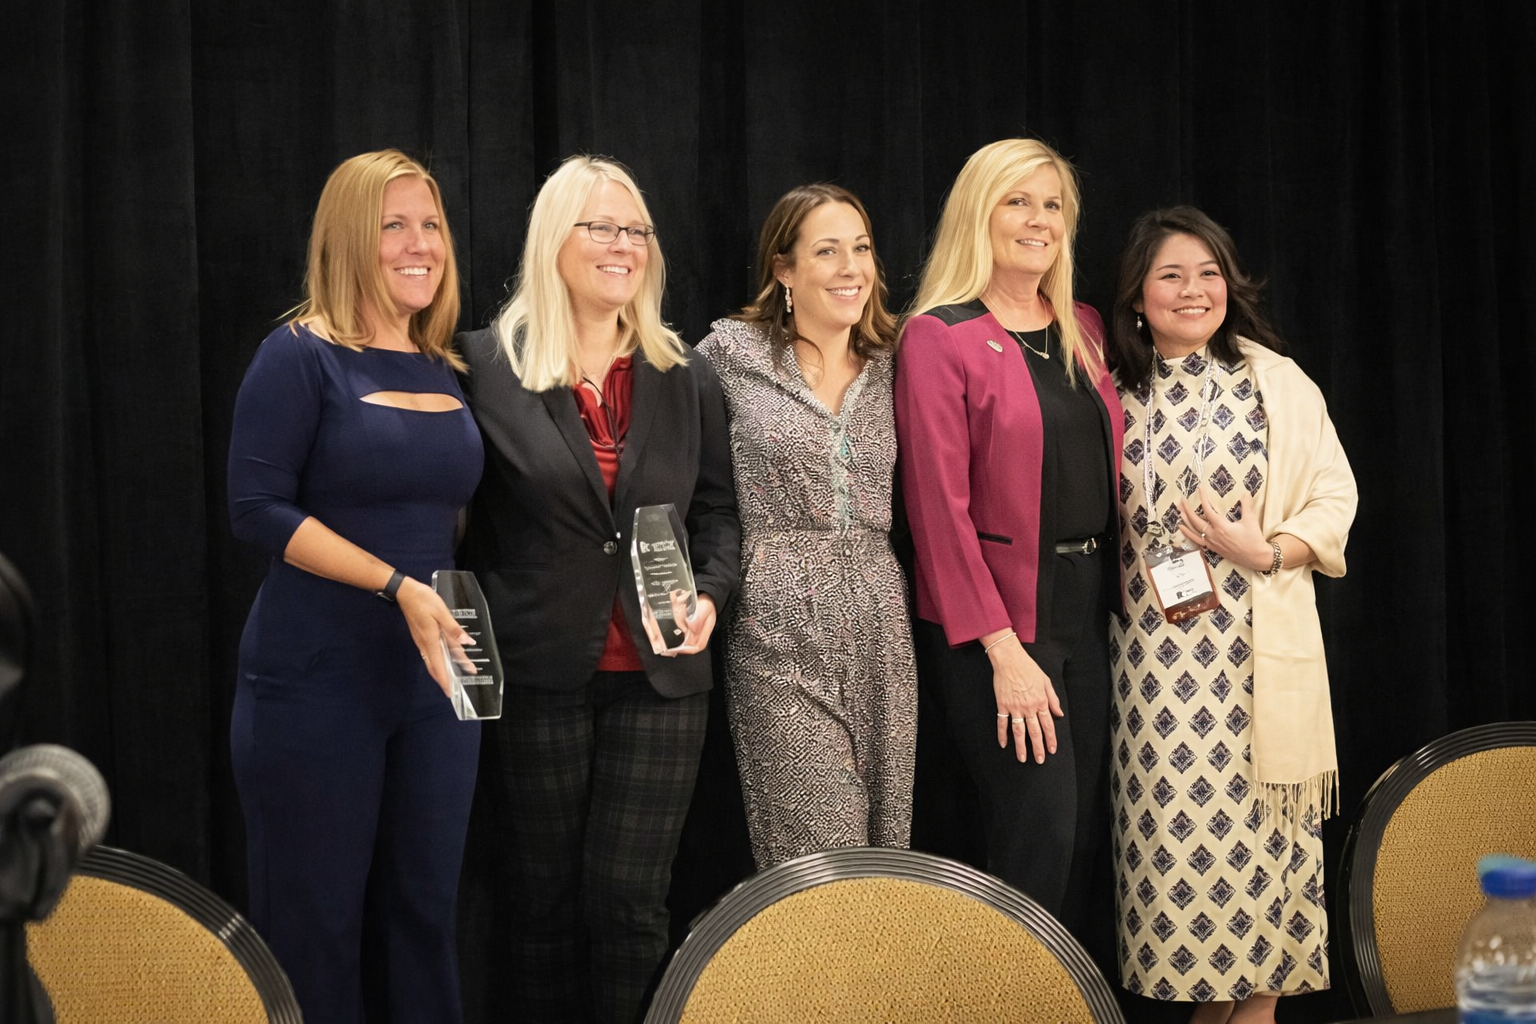
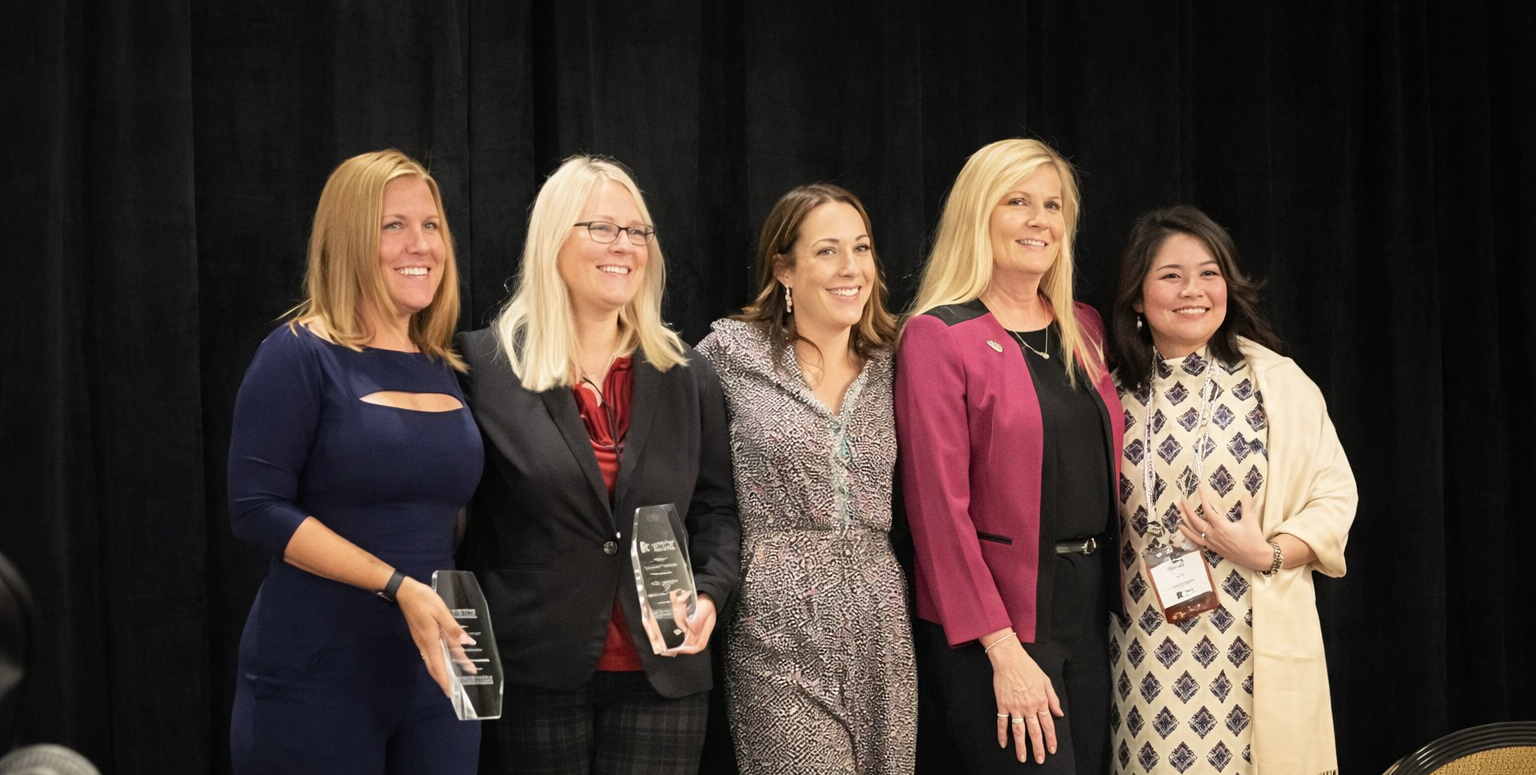
jan-19

diff --git a/src/components/pages/about/aboutSection3.jsx b/src/components/pages/about/aboutSection3.jsx
@@ -1,6 +1,8 @@
 import React from "react";
 import  AboutSection3Image from "../../../assets/images/about/about-section-3.png";
 
+import EileenInWhite from "../../../assets/images/home/eileen-choose-white.jpg"
+
 export default function AboutSection3() {
   return (
     <section id="about-section-3" className="about-section">
@@ -12,7 +14,7 @@ export default function AboutSection3() {
               <div className="about-mediaCard">
                 <div className="about-image">
                   <img
-                    src={AboutSection3Image}
+                    src={EileenInWhite}
                     alt="Industry speaking and thought leadership"
                   />
                 </div>

diff --git a/src/components/pages/about/aboutSection2.jsx b/src/components/pages/about/aboutSection2.jsx
@@ -1,5 +1,5 @@
 import React from "react";
-import  AboutSection2Image from "../../../assets/images/about/about-section-2.png";
+import  AboutSection2Image from "../../../assets/images/home/community-building.jpg";
 
 export default function AboutSection2() {
   return (

diff --git a/src/components/pages/home/section4.jsx b/src/components/pages/home/section4.jsx
@@ -1,6 +1,6 @@
 // Section4.jsx
 import React from "react";
-import KristyE from "../../../assets/images/home/kristy-and-eileen.jpg";
+import KristyE from "../../../assets/images/home/eileen-community.jpg";
 
 export default function Section4() {
   return (

diff --git a/src/components/pages/about/aboutSection1.jsx b/src/components/pages/about/aboutSection1.jsx
@@ -1,5 +1,5 @@
 import React from "react";
-import AboutSection1Image from "../../../assets/images/about/about-section-1.png";
+import AboutSection1Image from "../../../assets/images/home/snapshot-work.jpg";
 
 
 export default function AboutSection1() {

diff --git a/src/assets/styles/layout/footer.css b/src/assets/styles/layout/footer.css
@@ -100,7 +100,7 @@
   margin-right: 50px;
   width: clamp(84px, 7vw, 120px);
   flex-shrink: 0;
-  filter: drop-shadow(0 10px 24px rgba(74, 132, 197, 0.35));
+ 
 }
 
 .apex-footer-word {
